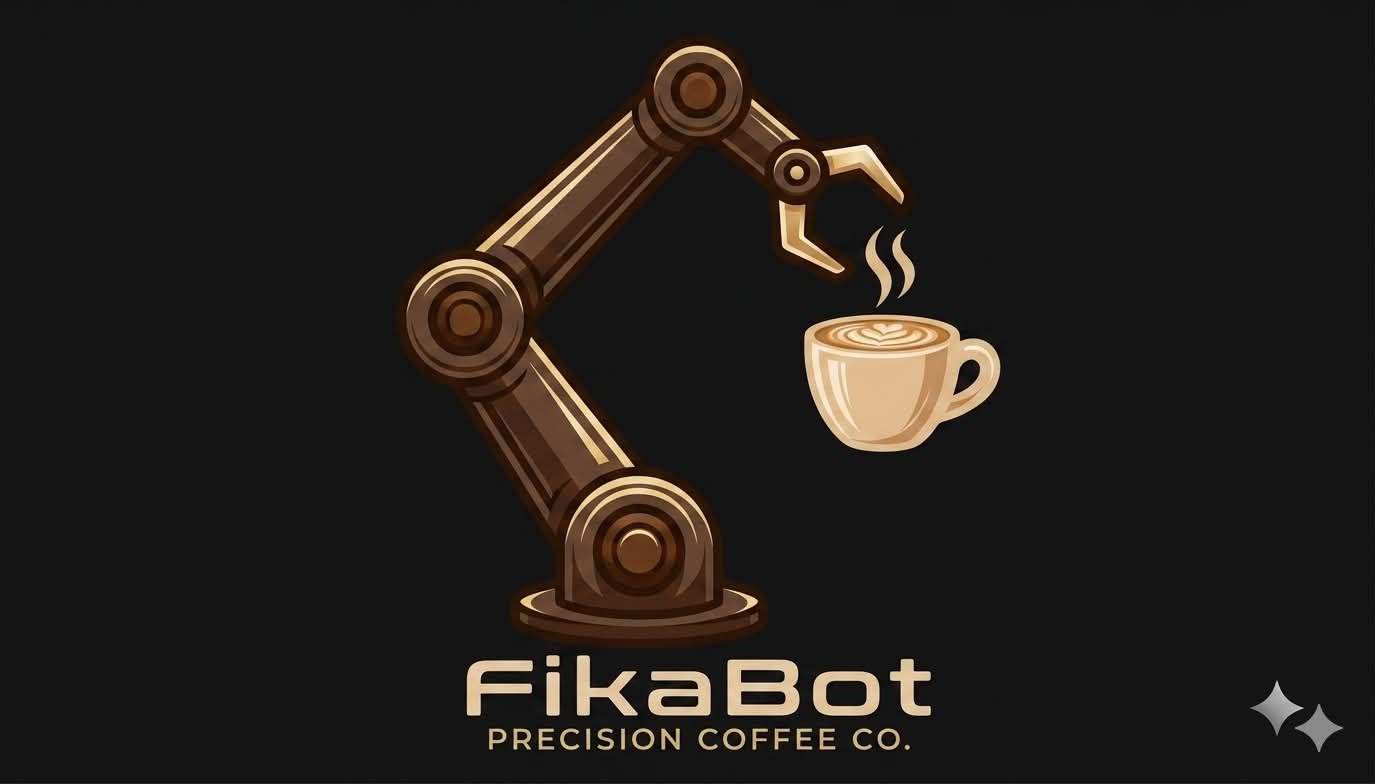
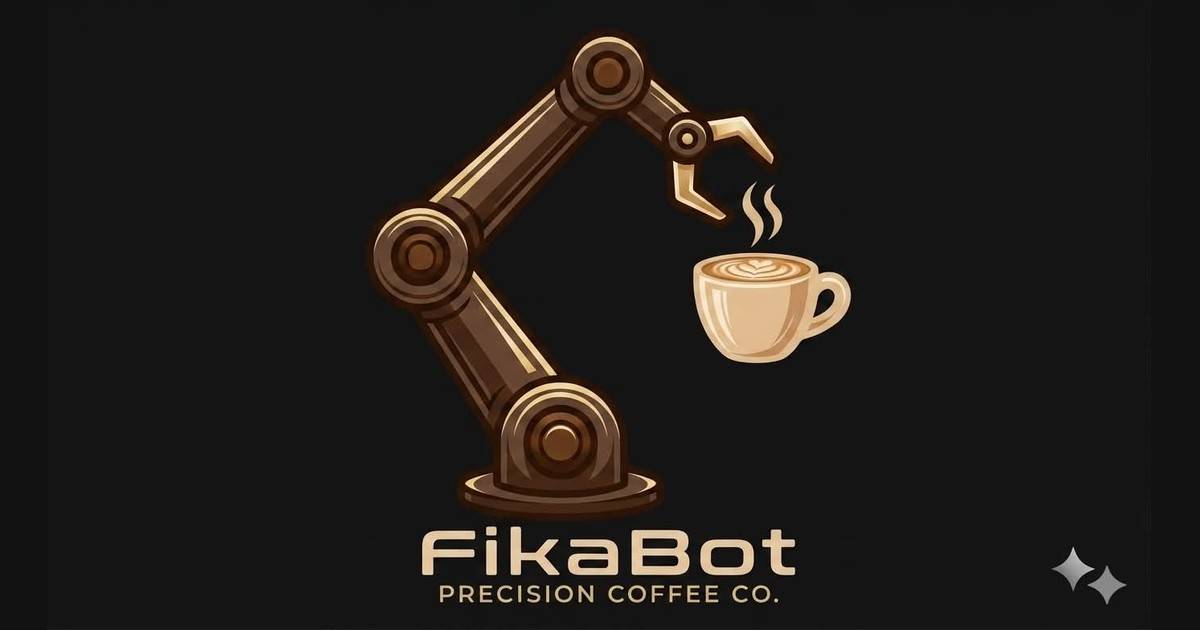
Use 1200x630 preview image for pixel-perfect social cards
Replace the raw logo (1375x784) with a 1200x630 version — the logo
centered on its dark background — matching the ideal Open Graph aspect
ratio so platforms render it without cropping. Update og:image
dimensions accordingly.

diff --git a/index.html b/index.html
@@ -13,8 +13,8 @@
   <meta property="og:url" content="https://fikabot.se/" />
   <meta property="og:site_name" content="FikaBot AB" />
   <meta property="og:image" content="https://fikabot.se/og-image.jpg" />
-  <meta property="og:image:width" content="1375" />
-  <meta property="og:image:height" content="784" />
+  <meta property="og:image:width" content="1200" />
+  <meta property="og:image:height" content="630" />
   <meta property="og:image:alt" content="FikaBot — Precision Coffee Co." />
 
   <meta name="twitter:card" content="summary_large_image" />